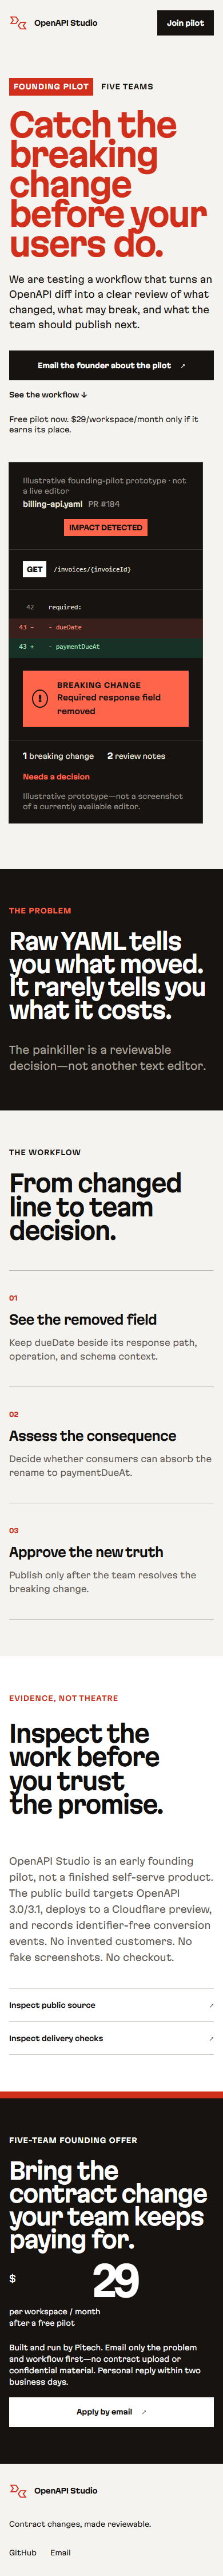
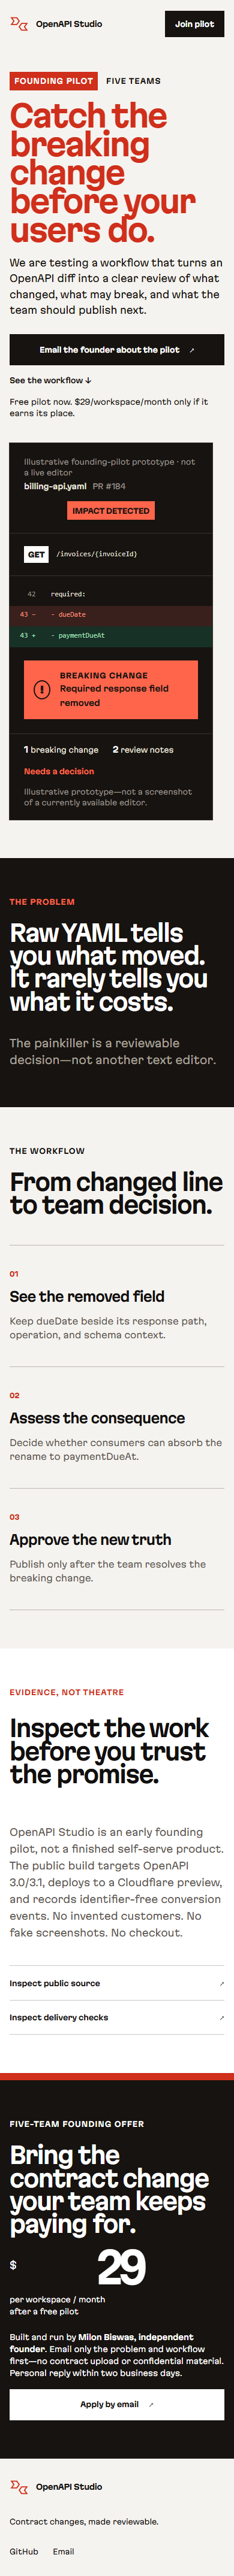
fix: restore landing fold rhythm

diff --git a/src/styles.css b/src/styles.css
@@ -60,7 +60,7 @@ h3 {
 }
 .site-header {
   display: flex;
-  min-height: 6rem;
+  min-height: 5rem;
   align-items: center;
   justify-content: space-between;
 }
@@ -149,16 +149,16 @@ a:focus-visible {
 
 .hero {
   display: grid;
-  grid-template-columns: minmax(0, 0.9fr) minmax(32rem, 1.1fr);
-  gap: clamp(3rem, 7vw, 8rem);
+  grid-template-columns: minmax(0, 0.82fr) minmax(32rem, 1.18fr);
+  gap: clamp(2.5rem, 4vw, 4.5rem);
   align-items: center;
-  padding-block: clamp(4rem, 8vw, 8rem) clamp(5rem, 10vw, 10rem);
+  padding-block: clamp(2.5rem, 5vw, 4.5rem) clamp(4rem, 7vw, 6rem);
 }
 .hero-copy {
   display: flex;
   flex-direction: column;
   align-items: flex-start;
-  gap: 1.5rem;
+  gap: 1.15rem;
 }
 .eyebrow,
 .section-label {
@@ -178,12 +178,12 @@ a:focus-visible {
   background: #cf2f1b;
 }
 h1 {
-  max-width: 10ch;
-  font-size: clamp(3.25rem, 6.4vw, 6.8rem);
+  max-width: 11.5ch;
+  font-size: clamp(3.25rem, 5vw, 4.75rem);
   font-stretch: 92%;
   font-weight: 720;
   letter-spacing: -0.04em;
-  line-height: 0.92;
+  line-height: 0.94;
   color: #cf2f1b;
 }
 .hero-lead {
@@ -350,7 +350,7 @@ figcaption {
 }
 .pain-section h2 {
   max-width: 21ch;
-  font-size: clamp(2.5rem, 5vw, 5.6rem);
+  font-size: clamp(2.4rem, 4vw, 4.4rem);
   font-stretch: 90%;
   font-weight: 650;
   letter-spacing: -0.035em;
@@ -377,7 +377,7 @@ figcaption {
 .section-intro h2,
 .evidence-grid h2 {
   max-width: 15ch;
-  font-size: clamp(2.6rem, 5vw, 5rem);
+  font-size: clamp(2.4rem, 4vw, 4.25rem);
   font-stretch: 90%;
   font-weight: 680;
   letter-spacing: -0.04em;
@@ -469,7 +469,7 @@ figcaption {
 .offer-section h2 {
   max-width: 17ch;
   margin-top: 1.5rem;
-  font-size: clamp(2.5rem, 4.5vw, 4.7rem);
+  font-size: clamp(2.4rem, 3.7vw, 4rem);
   font-stretch: 91%;
   font-weight: 680;
   letter-spacing: -0.04em;
@@ -552,10 +552,10 @@ figcaption {
     display: none;
   }
   .hero {
-    padding-top: 3.5rem;
+    padding-top: 2.5rem;
   }
   h1 {
-    font-size: clamp(3rem, 14.5vw, 4.8rem);
+    font-size: clamp(2.8rem, 13vw, 4rem);
   }
   .hero-actions,
   .hero-actions .button {

diff --git a/.tasks/2026-07-18-TSK-3-landing-redesign-TASKS.md b/.tasks/2026-07-18-TSK-3-landing-redesign-TASKS.md
@@ -23,7 +23,7 @@
 - **Dependencies:** TG-002
 - **Status:** IN_PROGRESS
 - **Acceptance:** REQ-008 and REQ-009 validation, independent review, preview acceptance, and CI pass.
-- **Evidence:** The third visual direction is implemented and local accessibility, truthfulness, no-JavaScript, and narrow-screen checks are being revalidated. Full-page evidence is at `.docs/TSK-3-redesign-desktop.png` and `.docs/TSK-3-redesign-mobile.png`. Independent critique, updated PR CI, and a new preview remain before product-owner approval.
+- **Evidence:** The third visual direction is implemented. After product-owner review exposed an oversized desktop fold, the type scale, hero spacing, grid balance, and downstream display sizes were tightened. Exact fold evidence at `.docs/TSK-3-fold-2048x1000.png` keeps the CTA and prototype visible without scrolling; full-page desktop and mobile evidence is also current. Accessibility, truthfulness, no-JavaScript, and narrow-screen checks pass. Updated preview approval remains.
 
 ## Ready Rule
 